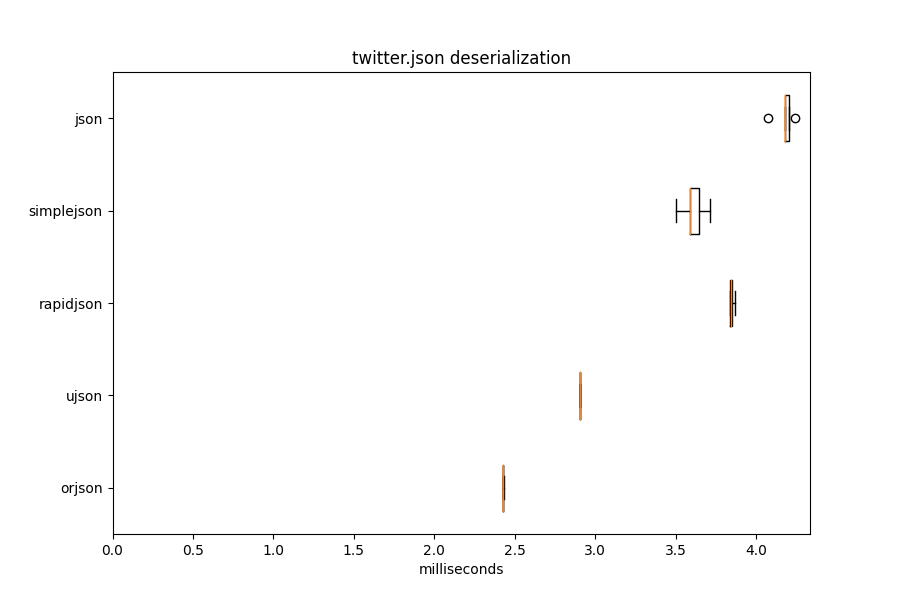
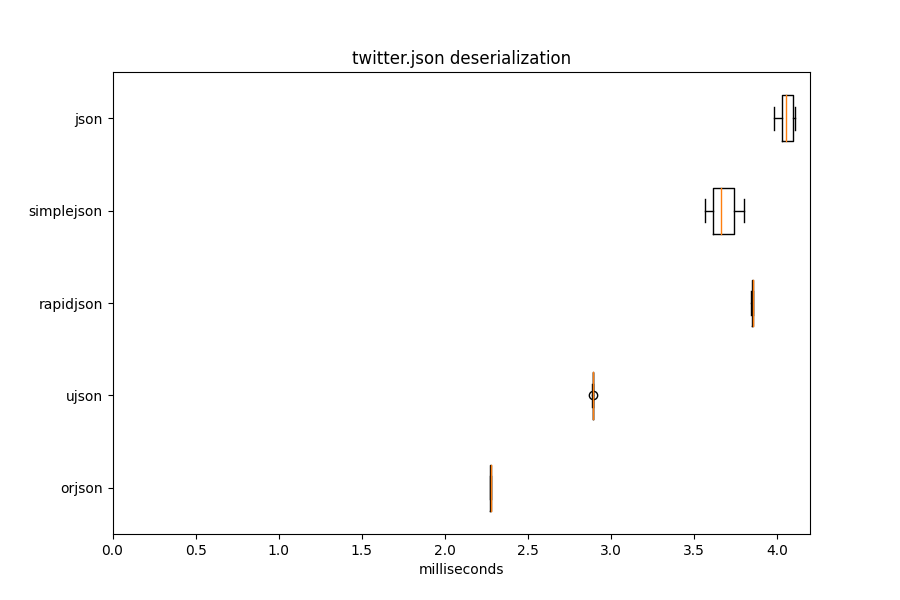
3.3.0

diff --git a/README.md b/README.md
@@ -282,11 +282,11 @@ pretty (64KiB):
 
 | Library    |   compact (ms) | pretty (ms)   | vs. orjson   |
 |------------|----------------|---------------|--------------|
-| orjson     |           0.07 | 0.07          | 1.0          |
-| ujson      |           0.16 | 0.17          | 2.4          |
-| rapidjson  |           0.29 |               |              |
-| simplejson |           0.48 | 1.69          | 22.9         |
-| json       |           0.35 | 1.28          | 17.4         |
+| orjson     |           0.06 | 0.07          | 1.0          |
+| ujson      |           0.18 | 0.19          | 2.8          |
+| rapidjson  |           0.22 |               |              |
+| simplejson |           0.35 | 1.49          | 21.4         |
+| json       |           0.36 | 1.19          | 17.2         |
 
 This measures serializing the citm_catalog.json fixture, more of a worst
 case due to the amount of nesting and newlines, as compact (489KiB) or
@@ -294,11 +294,11 @@ pretty (1.1MiB):
 
 | Library    |   compact (ms) | pretty (ms)   | vs. orjson   |
 |------------|----------------|---------------|--------------|
-| orjson     |           1.32 | 2.49          | 1.0          |
-| ujson      |           3.67 | 5.23          | 2.1          |
-| rapidjson  |           3.67 |               |              |
-| simplejson |          13.13 | 78.74         | 31.7         |
-| json       |           7.87 | 59.22         | 23.8         |
+| orjson     |           0.88 | 1.73          | 1.0          |
+| ujson      |           3.73 | 4.52          | 2.6          |
+| rapidjson  |           3.54 |               |              |
+| simplejson |          11.77 | 72.06         | 41.6         |
+| json       |           6.71 | 55.22         | 31.9         |
 
 rapidjson is blank because it does not support pretty printing. This can be
 reproduced using the `pyindent` script.
@@ -376,11 +376,11 @@ serialization, and orjson still specifes `option=orjson.OPT_NON_STR_KEYS`
 
 | Library    |   str keys (ms) | int keys (ms)   | int keys sorted (ms)   |
 |------------|-----------------|-----------------|------------------------|
-| orjson     |            1.97 | 2.24            | 6.50                   |
-| ujson      |            2.82 | 5.32            |                        |
-| rapidjson  |            4.47 |                 |                        |
-| simplejson |            9.42 | 11.77           | 21.52                  |
-| json       |            6.32 | 8.05            |                        |
+| orjson     |            1.53 | 2.16            | 4.29                   |
+| ujson      |            3.07 | 5.65            |                        |
+| rapidjson  |            4.29 |                 |                        |
+| simplejson |           11.24 | 14.50           | 21.86                  |
+| json       |            7.17 | 8.49            |                        |
 
 ujson is blank for sorting because it segfaults. json is blank because it
 raises `TypeError` on attempting to sort before converting all keys to `str`.
@@ -815,33 +815,33 @@ dimensions of `(50000, 100)` and `numpy.float64` values:
 
 | Library    | Latency (ms)   | RSS diff (MiB)   | vs. orjson   |
 |------------|----------------|------------------|--------------|
-| orjson     | 302            | 99               | 1.0          |
+| orjson     | 194            | 99               | 1.0          |
 | ujson      |                |                  |              |
-| rapidjson  | 3,620          | 310              | 12.0         |
-| simplejson | 3,596          | 297              | 11.9         |
-| json       | 3,410          | 298              | 11.3         |
+| rapidjson  | 3,048          | 309              | 15.7         |
+| simplejson | 3,023          | 297              | 15.6         |
+| json       | 3,133          | 297              | 16.1         |
 
 This measures serializing 100MiB of JSON from an `numpy.ndarray` with
 dimensions of `(100000, 100)` and `numpy.int32` values:
 
 | Library    | Latency (ms)   | RSS diff (MiB)   | vs. orjson   |
 |------------|----------------|------------------|--------------|
-| orjson     | 191            | 118              | 1.0          |
+| orjson     | 178            | 115              | 1.0          |
 | ujson      |                |                  |              |
-| rapidjson  | 1,808          | 553              | 9.5          |
-| simplejson | 1,796          | 506              | 9.4          |
-| json       | 1,590          | 506              | 8.3          |
+| rapidjson  | 1,512          | 551              | 8.5          |
+| simplejson | 1,606          | 504              | 9.0          |
+| json       | 1,506          | 503              | 8.4          |
 
 This measures serializing 105MiB of JSON from an `numpy.ndarray` with
 dimensions of `(100000, 200)` and `numpy.bool` values:
 
 | Library    | Latency (ms)   | RSS diff (MiB)   | vs. orjson   |
 |------------|----------------|------------------|--------------|
-| orjson     | 211            | 123              | 1.0          |
+| orjson     | 157            | 120              | 1.0          |
 | ujson      |                |                  |              |
-| rapidjson  | 919            | 346              | 4.3          |
-| simplejson | 1,239          | 367              | 5.9          |
-| json       | 1,243          | 367              | 5.9          |
+| rapidjson  | 710            | 327              | 4.5          |
+| simplejson | 931            | 398              | 5.9          |
+| json       | 996            | 400              | 6.3          |
 
 In these benchmarks, orjson serializes natively, ujson is blank because it
 does not support a `default` parameter, and the other libraries serialize
@@ -928,13 +928,13 @@ library fares handles a combined 342 JSON fixtures from the
 [JSONTestSuite](https://github.com/nst/JSONTestSuite) and
 [nativejson-benchmark](https://github.com/miloyip/nativejson-benchmark) tests:
 
-| Library    |   Invalid JSON fixtures not rejected |   Valid JSON fixtures not deserialized |
-|------------|--------------------------------------|----------------------------------------|
-| orjson     |                                    0 |                                      0 |
-| ujson      |                                   38 |                                      0 |
-| rapidjson  |                                    6 |                                      0 |
-| simplejson |                                   13 |                                      0 |
-| json       |                                   17 |                                      0 |
+| Library    |   Invalid JSON documents not rejected |   Valid JSON documents not deserialized |
+|------------|---------------------------------------|-----------------------------------------|
+| orjson     |                                     0 |                                       0 |
+| ujson      |                                    38 |                                       0 |
+| rapidjson  |                                     6 |                                       0 |
+| simplejson |                                    13 |                                       0 |
+| json       |                                    17 |                                       0 |
 
 This shows that all libraries deserialize valid JSON but only orjson
 correctly rejects the given invalid JSON fixtures. Errors are largely due to
@@ -975,81 +975,81 @@ format, containing floats and arrays, indented.
 
 | Library    |   Median latency (milliseconds) |   Operations per second |   Relative (latency) |
 |------------|---------------------------------|-------------------------|----------------------|
-| orjson     |                            0.58 |                  1734   |                 1    |
-| ujson      |                            2.11 |                   472.8 |                 3.66 |
-| rapidjson  |                            2.38 |                   419.1 |                 4.13 |
-| simplejson |                            3.32 |                   301.1 |                 5.75 |
-| json       |                            3.34 |                   299.4 |                 5.78 |
+| orjson     |                            0.59 |                  1698.8 |                 1    |
+| ujson      |                            2.14 |                   464.3 |                 3.64 |
+| rapidjson  |                            2.39 |                   418.5 |                 4.06 |
+| simplejson |                            3.15 |                   316.9 |                 5.36 |
+| json       |                            3.56 |                   281.2 |                 6.06 |
 
 #### twitter.json deserialization
 
 | Library    |   Median latency (milliseconds) |   Operations per second |   Relative (latency) |
 |------------|---------------------------------|-------------------------|----------------------|
-| orjson     |                            2.43 |                   411.8 |                 1    |
-| ujson      |                            2.91 |                   344.1 |                 1.2  |
-| rapidjson  |                            3.84 |                   259.8 |                 1.58 |
-| simplejson |                            3.59 |                   277.1 |                 1.48 |
-| json       |                            4.18 |                   239.3 |                 1.72 |
+| orjson     |                            2.28 |                   439.3 |                 1    |
+| ujson      |                            2.89 |                   345.9 |                 1.27 |
+| rapidjson  |                            3.85 |                   259.6 |                 1.69 |
+| simplejson |                            3.66 |                   272.1 |                 1.61 |
+| json       |                            4.05 |                   246.7 |                 1.78 |
 
 #### github.json serialization
 
 | Library    |   Median latency (milliseconds) |   Operations per second |   Relative (latency) |
 |------------|---------------------------------|-------------------------|----------------------|
-| orjson     |                            0.06 |                 15386.9 |                 1    |
-| ujson      |                            0.22 |                  4578.4 |                 3.36 |
-| rapidjson  |                            0.26 |                  3845.2 |                 4    |
-| simplejson |                            0.44 |                  2272.3 |                 6.78 |
-| json       |                            0.35 |                  2844.6 |                 5.4  |
+| orjson     |                            0.07 |                 15265.2 |                 1    |
+| ujson      |                            0.22 |                  4556.7 |                 3.35 |
+| rapidjson  |                            0.26 |                  3808.9 |                 4.02 |
+| simplejson |                            0.37 |                  2690.4 |                 5.68 |
+| json       |                            0.35 |                  2847.8 |                 5.36 |
 
 #### github.json deserialization
 
 | Library    |   Median latency (milliseconds) |   Operations per second |   Relative (latency) |
 |------------|---------------------------------|-------------------------|----------------------|
-| orjson     |                            0.2  |                  5094.7 |                 1    |
-| ujson      |                            0.29 |                  3491.9 |                 1.46 |
-| rapidjson  |                            0.33 |                  3033   |                 1.68 |
-| simplejson |                            0.29 |                  3501.7 |                 1.46 |
-| json       |                            0.3  |                  3326.7 |                 1.53 |
+| orjson     |                            0.18 |                  5610.1 |                 1    |
+| ujson      |                            0.28 |                  3540.7 |                 1.58 |
+| rapidjson  |                            0.33 |                  3031.5 |                 1.85 |
+| simplejson |                            0.29 |                  3385.6 |                 1.65 |
+| json       |                            0.29 |                  3402.1 |                 1.65 |
 
 #### citm_catalog.json serialization
 
 | Library    |   Median latency (milliseconds) |   Operations per second |   Relative (latency) |
 |------------|---------------------------------|-------------------------|----------------------|
-| orjson     |                            1.01 |                   993.3 |                 1    |
-| ujson      |                            3.65 |                   274.2 |                 3.62 |
-| rapidjson  |                            3.56 |                   281   |                 3.54 |
-| simplejson |                           11.5  |                    86.2 |                11.43 |
-| json       |                            6.92 |                   144.3 |                 6.87 |
+| orjson     |                            0.99 |                  1008.5 |                 1    |
+| ujson      |                            3.69 |                   270.7 |                 3.72 |
+| rapidjson  |                            3.55 |                   281.4 |                 3.58 |
+| simplejson |                           11.76 |                    85.1 |                11.85 |
+| json       |                            6.89 |                   145.1 |                 6.95 |
 
 #### citm_catalog.json deserialization
 
 | Library    |   Median latency (milliseconds) |   Operations per second |   Relative (latency) |
 |------------|---------------------------------|-------------------------|----------------------|
-| orjson     |                            4.31 |                   232.2 |                 1    |
-| ujson      |                            5.6  |                   178.6 |                 1.3  |
-| rapidjson  |                            7.53 |                   132.8 |                 1.75 |
-| simplejson |                            7.58 |                   131.9 |                 1.76 |
-| json       |                            7.75 |                   128.9 |                 1.8  |
+| orjson     |                            4.53 |                   220.5 |                 1    |
+| ujson      |                            5.67 |                   176.5 |                 1.25 |
+| rapidjson  |                            7.51 |                   133.3 |                 1.66 |
+| simplejson |                            7.54 |                   132.7 |                 1.66 |
+| json       |                            7.8  |                   128.2 |                 1.72 |
 
 #### canada.json serialization
 
 | Library    |   Median latency (milliseconds) |   Operations per second |   Relative (latency) |
 |------------|---------------------------------|-------------------------|----------------------|
-| orjson     |                            4.64 |                   215.5 |                 1    |
-| ujson      |                           19.64 |                    51.5 |                 4.23 |
-| rapidjson  |                           61.51 |                    16.3 |                13.26 |
-| simplejson |                           80.02 |                    12.5 |                17.25 |
-| json       |                           61.46 |                    16.3 |                13.25 |
+| orjson     |                            4.72 |                   198.9 |                 1    |
+| ujson      |                           17.76 |                    56.3 |                 3.77 |
+| rapidjson  |                           61.83 |                    16.2 |                13.11 |
+| simplejson |                           80.6  |                    12.4 |                17.09 |
+| json       |                           52.38 |                    18.8 |                11.11 |
 
 #### canada.json deserialization
 
 | Library    |   Median latency (milliseconds) |   Operations per second |   Relative (latency) |
 |------------|---------------------------------|-------------------------|----------------------|
-| orjson     |                            9.82 |                   102   |                 1    |
-| ujson      |                           16.56 |                    60.5 |                 1.69 |
-| rapidjson  |                           38.17 |                    26.1 |                 3.89 |
-| simplejson |                           37.11 |                    26.9 |                 3.78 |
-| json       |                           37.98 |                    27.1 |                 3.87 |
+| orjson     |                           10.28 |                    97.4 |                 1    |
+| ujson      |                           16.49 |                    60.5 |                 1.6  |
+| rapidjson  |                           37.92 |                    26.4 |                 3.69 |
+| simplejson |                           37.7  |                    26.5 |                 3.67 |
+| json       |                           37.87 |                    27.6 |                 3.68 |
 
 ### Memory
 
@@ -1103,7 +1103,7 @@ calling `loads()` on the fixture.
 ### Reproducing
 
 The above was measured using Python 3.8.3 on Linux (x86_64) with
-orjson 3.2.1, ujson 3.0.0, python-rapidson 0.9.1, and simplejson 3.17.0.
+orjson 3.3.0, ujson 3.0.0, python-rapidson 0.9.1, and simplejson 3.17.2.
 
 The latency results can be reproduced using the `pybench` and `graph`
 scripts. The memory results can be reproduced using the `pymem` script.

diff --git a/CHANGELOG.md b/CHANGELOG.md
@@ -1,5 +1,14 @@
 # Changelog
 
+## 3.3.0 - 2020-07-24
+
+### Added
+
+- `orjson.dumps()` now serializes individual numpy floats and integers, e.g.,
+`numpy.float64(1.0)`.
+- `orjson.OPT_PASSTHROUGH_DATACLASS` causes `orjson.dumps()` to pass
+`dataclasses.dataclass` instances to `default`.
+
 ## 3.2.2 - 2020-07-13
 
 ### Fixed
